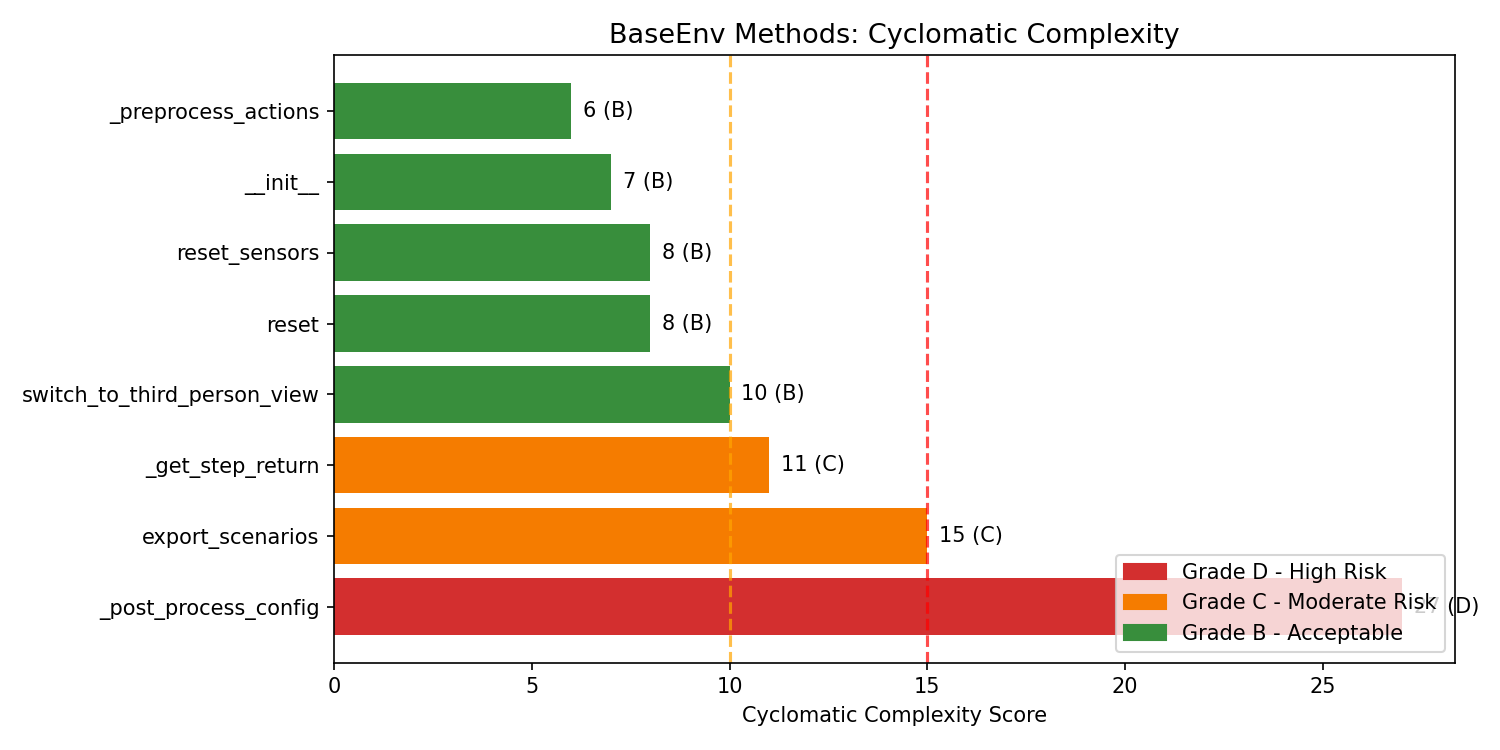
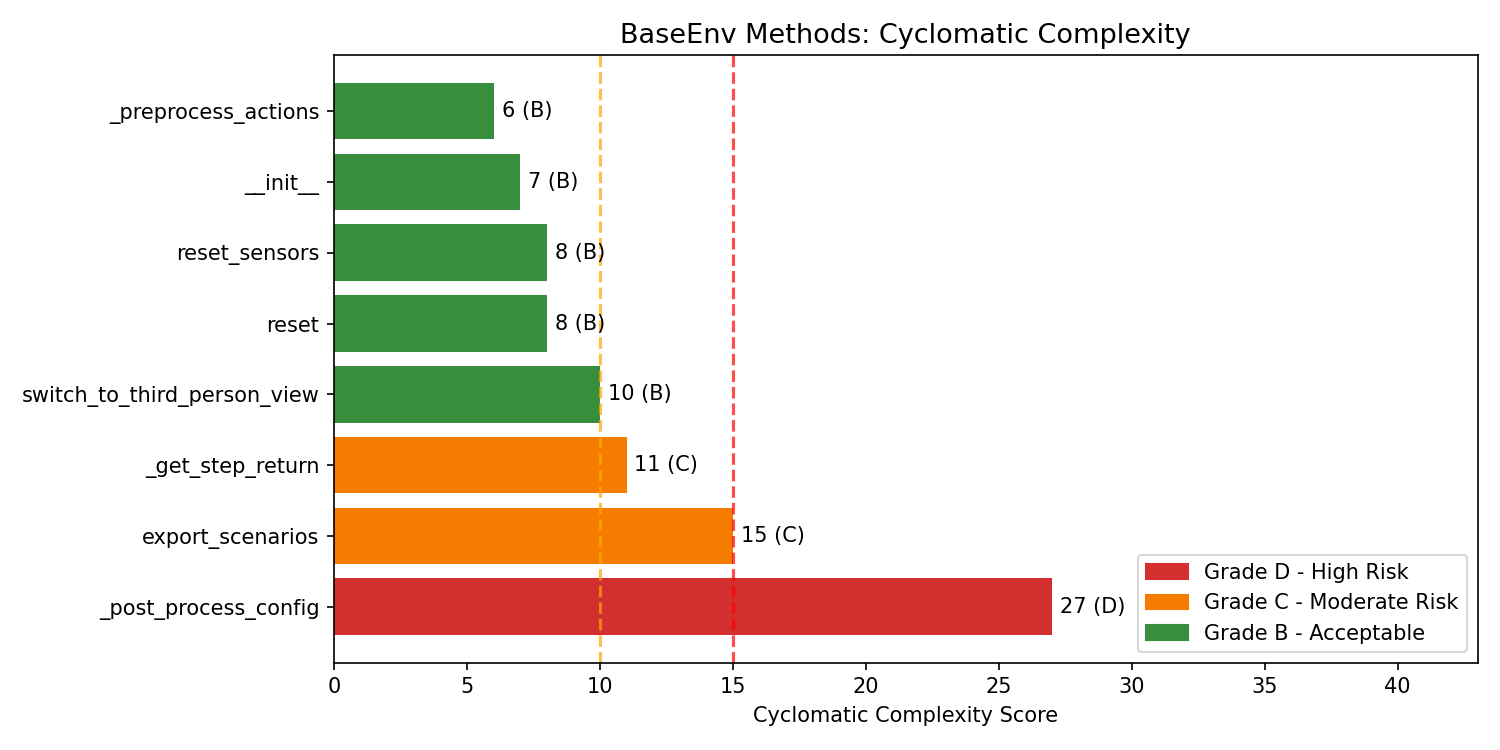
Update CC chart axis and add envs class hierarchy diagram

diff --git a/analyze_smells.py b/analyze_smells.py
@@ -2,9 +2,7 @@ import matplotlib.pyplot as plt
 import matplotlib.patches as mpatches
 import numpy as np
 
-# ============================================
-# 图1：BaseEnv各方法圈复杂度对比图
-# ============================================
+
 
 methods = [
     '_post_process_config',
@@ -19,7 +17,7 @@ methods = [
 scores = [27, 15, 11, 10, 8, 8, 7, 6]
 grades = ['D', 'C', 'C', 'B', 'B', 'B', 'B', 'B']
 
-# 根据评级设置颜色
+
 colors = []
 for g in grades:
     if g == 'D':
@@ -31,17 +29,18 @@ for g in grades:
 
 fig, ax = plt.subplots(figsize=(10, 5))
 bars = ax.barh(methods, scores, color=colors)
+ax.set_xlim(0, 43)
 ax.set_xlabel('Cyclomatic Complexity Score')
 ax.set_title('BaseEnv Methods: Cyclomatic Complexity', fontsize=13)
 ax.axvline(x=10, color='orange', linestyle='--', alpha=0.7, label='Grade C threshold (10)')
 ax.axvline(x=15, color='red', linestyle='--', alpha=0.7, label='Grade D threshold (15)')
 
-# 在每个bar右侧标注分数和等级
+
 for bar, score, grade in zip(bars, scores, grades):
     ax.text(score + 0.3, bar.get_y() + bar.get_height()/2,
             f'{score} ({grade})', va='center', fontsize=10)
 
-# 图例
+
 red_patch = mpatches.Patch(color='#d32f2f', label='Grade D - High Risk')
 orange_patch = mpatches.Patch(color='#f57c00', label='Grade C - Moderate Risk')
 green_patch = mpatches.Patch(color='#388e3c', label='Grade B - Acceptable')
@@ -51,9 +50,7 @@ plt.tight_layout()
 plt.savefig('/Users/pangjugua/metadrive/cc_baseenv.png', dpi=150)
 print("图1已保存：cc_baseenv.png")
 
-# ============================================
-# 图2：代码构成饼图
-# ============================================
+
 
 fig2, ax2 = plt.subplots(figsize=(7, 7))
 labels = ['Source Code\n(SLOC)', 'Comments', 'Multi-line\nStrings/Docs', 'Blank Lines']
@@ -71,9 +68,7 @@ plt.tight_layout()
 plt.savefig('/Users/pangjugua/metadrive/code_composition.png', dpi=150)
 print("图2已保存：code_composition.png")
 
-# ============================================
-# 图3：已有重构commits时间线
-# ============================================
+
 
 refactor_events = [
     ('2021-03', 'Refactor config system'),
